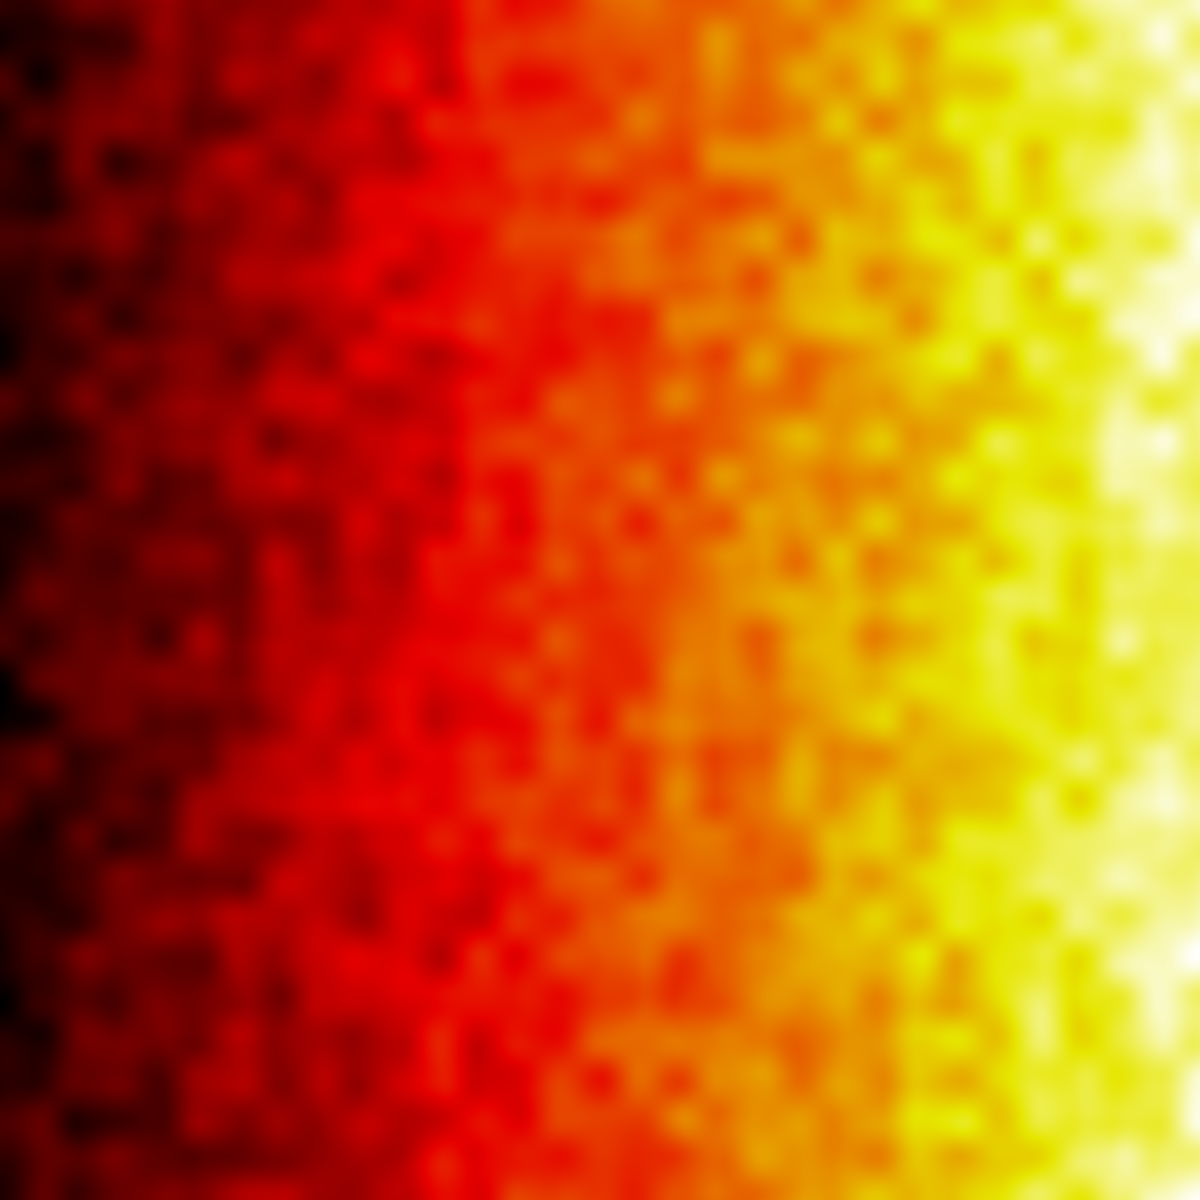
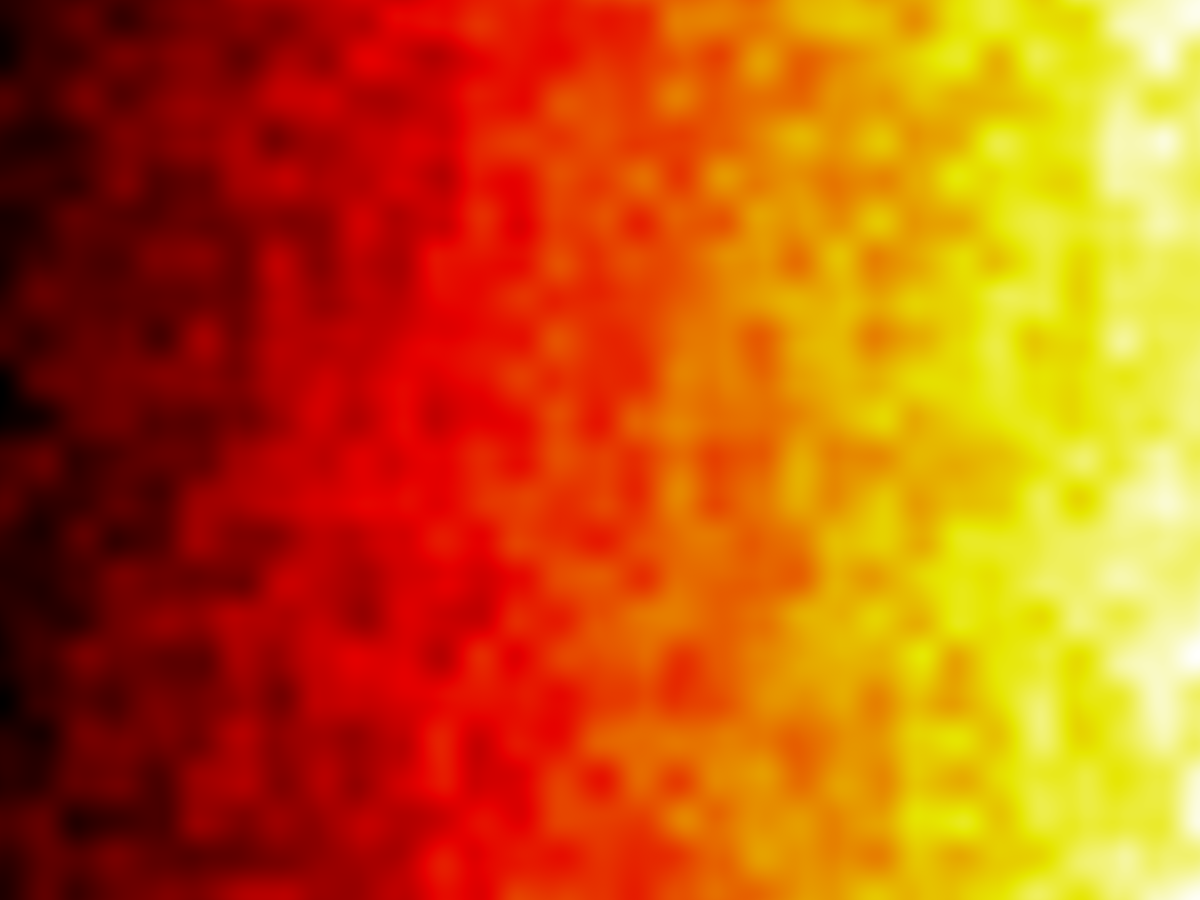
Added approximations of deuteranope vision and reduced hieght of some examples.
git-svn-id: svn+ssh://vizrd.srn.sandia.gov/svnroot/kmorel/papers/ColorMaps/trunk@666 61430140-fc74-48ae-be37-35807f1eb91a

diff --git a/ColorMaps.tex b/ColorMaps.tex
@@ -1042,6 +1042,13 @@ demonstrated in Figure~\ref{fig:ColorMapInteraction}.
     \includegraphics[width=1.1in]{images/Green2RedHfNoise} &
     \includegraphics[width=1.1in]{images/Blue2YellowHfNoise} \\
 
+    \includegraphics[width=1.1in]{images/Cool2WarmDeuteranope} &
+    \includegraphics[width=1.1in]{images/RainbowDeuteranope} &
+    \includegraphics[width=1.1in]{images/GrayscaleDeuteranope} &
+    \includegraphics[width=1.1in]{images/BlackBodyDeuteranope} &
+    \includegraphics[width=1.1in]{images/Green2RedDeuteranope} &
+    \includegraphics[width=1.1in]{images/Blue2YellowDeuteranope} \\
+
     \includegraphics[width=1.1in]{images/Cool2WarmShading} &
     \includegraphics[width=1.1in]{images/RainbowShading} &
     \includegraphics[width=1.1in]{images/GrayscaleShading} &
@@ -1053,7 +1060,9 @@ demonstrated in Figure~\ref{fig:ColorMapInteraction}.
     left to right, cool-warm, rainbow, grayscale, heated body, isoluminant,
     and blue-yellow.  The demonstrations are, from top to bottom, a spatial
     contrast sensitivity function, a low-frequency sensitivity function,
-    high-frequency noise, and 3D shading.}
+    high-frequency noise, an approximation of the color map viewed by
+    someone with deuteranope color-deficient vision (computed with
+    Vischeck), and 3D shading.}
   \label{fig:MapComparison}
 \end{figure*}
 
@@ -1122,15 +1131,26 @@ Table~\ref{table:Cool2Warm}.
 %%   \label{table:Cool2WarmRGB}
 %% \end{table}
 
-This diverging color map works admirably for all of our scientific
-visualization requirements outlined in
-Section~\ref{sec:ColorMapRequriements}.  The colors are aesthetically
+This diverging color map works admirably for all of our
+requirements outlined in
+Section~\ref{sec:ColorMapRequirements}.  The colors are aesthetically
 pleasing, the order of the colors is natural, the rate of change is
 perceptually linear, and the colors are still easily distinguished by those
 with dichromatic vision.  The map also has a good perceptual range and
-minimally interferes with shading.  Figure~\ref{fig:MapComparison} compares
-the cool-warm color map to some common alternatives as well as some
-recommended by Rheingans\scite{Rheingans99} and Ware\scite{Ware04}.
+minimally interferes with shading.
+
+Figure~\ref{fig:MapComparison} compares the cool-warm color map to some
+common alternatives as well as some recommended by
+Rheingans\scite{Rheingans99} and Ware\scite{Ware04}.  The cool-warm color
+map works well in all the cases demonstrated here.  The rainbow color map
+exhibits problems with irregular perception and sensitivity to color
+deficiencies.  The grayscale and heated-body color maps work poorly in
+conjunction with 3D shaded surfaces.  The isoluminant color map has a low
+dynamic range and performs particularly poorly with high frequency data.
+The common choice of greed-red isoluminant color maps is also useless to
+most people with color-deficient vision.  The blue-yellow map works
+reasonably well in all these cases, but has a lower resolution than the
+cool-warm map, which yields poorer results with low contrast.
 
 %% , as demonstrated in Figure~\ref{fig:Cool2WarmResponse}.
 %% Using our initial criteria, we can think of a diverging color map as
